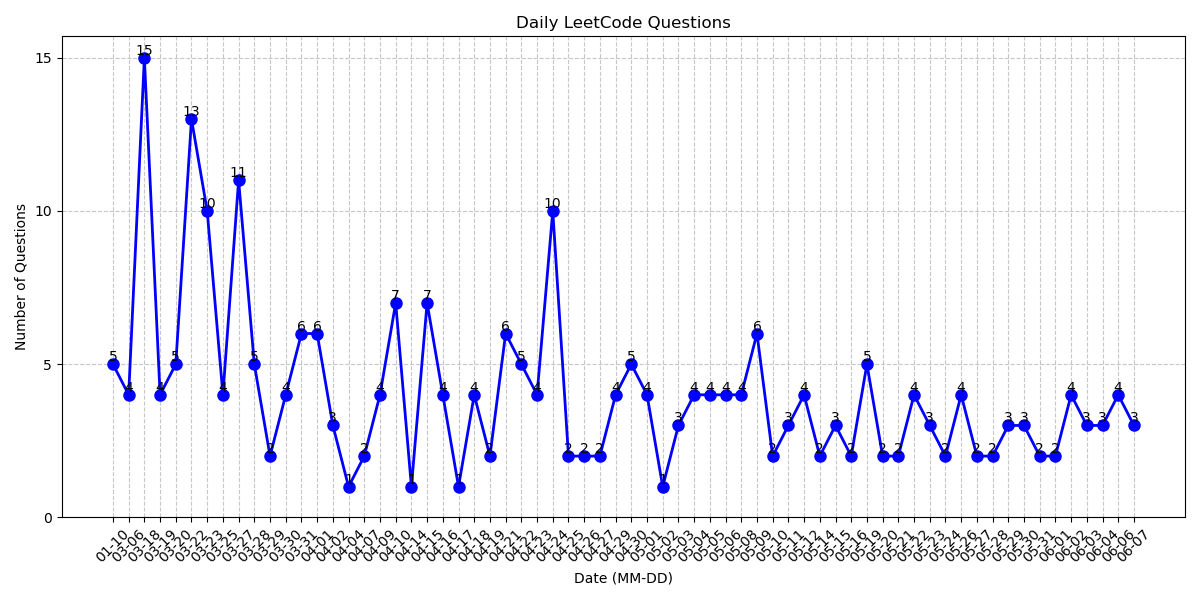
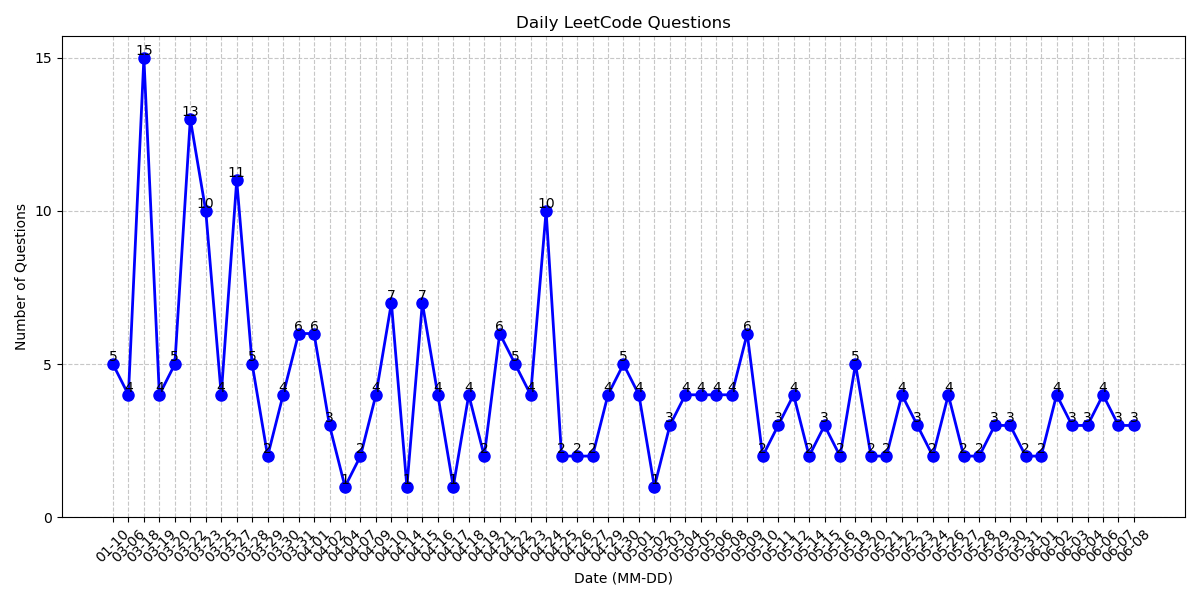
contest and daily pratices

diff --git a/WeekContest/Q2. Best Time to Buy and Sell Stock V.cpp b/WeekContest/Q2. Best Time to Buy and Sell Stock V.cpp
@@ -1,0 +1,76 @@
+/*
+    Normal transaction買入一定要在最低點
+    short selling transaction 賣出一定要在最高點
+    sliding windows
+    每次看目前 buy/sell的 跟 prices[i] 比較
+    1.
+    prices[i] > sell, 這個更值得short selling 的賣出
+    prices[i] < buy, 這個更值得normal transaction 的買入
+
+    2.
+    prices[i] < sell, 計算profit
+    prices[i] > buy, 計算profit
+
+    看哪個比較大決定要用normal 還是 short selling
+
+
+        sol 2. 每次prices[i]決定要 1.buy 還是2.sell, 但根據上一個step 決定,
+        如果i-1是 1.buy, 那只能1,2 sell, or ignore
+        如果i-1是 2.sell, 那只能1.2 buy or ignore
+        如果i-1是 其他那可以1.but 2.sell, or ignore
+
+
+        dp[i][state] 表示 目前這個state這max profit
+
+        state_1: 0: sell, 1: buy
+        state_2: 0: buy, 1: sell
+*/
+#include <iostream>
+using namespace std;
+class Solution {
+  public:
+	long long maximumProfit(vector<int> &prices, int k) {
+		int n = prices.size();
+		const long long NEG_INF = -1e15;
+		vector<vector<vector<long long>>> dp(
+		    n + 1,
+		    vector<vector<long long>>(k + 1, vector<long long>(3, NEG_INF)));
+
+		dp[0][k][0] = 0;
+
+		for (int i = 0; i < n; ++i) {
+			for (int rem_k = 0; rem_k <= k; ++rem_k) {
+				for (int state = 0; state < 3; ++state) {
+					long long val = dp[i][rem_k][state];
+					if (val == NEG_INF)
+						continue;
+
+					// Skip
+					dp[i + 1][rem_k][state] = max(dp[i + 1][rem_k][state], val);
+
+					if (state == 0 && rem_k > 0) {
+						dp[i + 1][rem_k][1] =
+						    max(dp[i + 1][rem_k][1], val - prices[i]); // Buy
+						dp[i + 1][rem_k][2] =
+						    max(dp[i + 1][rem_k][2], val + prices[i]); // Short
+					} else if (state == 1 && rem_k >= 1) {
+						dp[i + 1][rem_k - 1][0] = max(dp[i + 1][rem_k - 1][0],
+						                              val + prices[i]); // Sell
+					} else if (state == 2 && rem_k >= 1) {
+						dp[i + 1][rem_k - 1][0] =
+						    max(dp[i + 1][rem_k - 1][0],
+						        val - prices[i]); // Buy back
+					}
+				}
+			}
+		}
+
+		long long ans = 0;
+		for (int rem_k = 0; rem_k <= k; ++rem_k) {
+			ans = max(ans, dp[n][rem_k][0]);
+		}
+
+		return ans;
+	}
+};
+©leetcode

diff --git a/Stack&Queue/1438. Longest Continuous Subarray With Absolute Diff Less Than or Equal to Limit.cpp b/Stack&Queue/1438. Longest Continuous Subarray With Absolute Diff Less Than or Equal to Limit.cpp
@@ -1,0 +1,71 @@
+/*
+    1. brutal force, sldiing window exapdn right, narrow left, then check all
+   subarray and calculate all distance time: O(n^2)
+
+    2. we used heap to maintain max/min value in windows(by index), and if
+   current distance(max - min) > limit, narrow down until <= limit
+    time O(nlogn)
+
+    3. monotonic queue, heap 會造成多餘的log(n) 計算,
+       我們同時維護max/min dqueue, 超出limit 就不斷移動left 直到max/min 符合條件
+
+*/
+#include <iostream>
+using namespace std;
+#define Pair pair<int, int>
+class Solution {
+  public:
+	int longestSubarray(vector<int> &nums, int limit) {
+		priority_queue<Pair> max_heap;
+		priority_queue<Pair, vector<Pair>, greater<>> min_heap;
+		int l = 0;
+		int max_len = 0;
+		for (int r = 0; r < nums.size(); ++r) {
+			max_heap.push({nums[r], r});
+			min_heap.push({nums[r], r});
+
+			while (l < r && !max_heap.empty() && !min_heap.empty() &&
+			       max_heap.top().first - min_heap.top().first > limit) {
+				while (max_heap.top().second <= l)
+					max_heap.pop();
+				while (min_heap.top().second <= l)
+					min_heap.pop();
+				++l;
+			}
+			max_len = max(max_len, r - l + 1);
+		}
+		return max_len;
+	}
+};
+
+class Solution {
+  public:
+	int longestSubarray(vector<int> &nums, int limit) {
+		deque<int> max_q;
+		deque<int> min_q; // save index
+		int l = 0;
+		int max_len = 0;
+		for (int r = 0; r < nums.size(); ++r) {
+
+			// maintain the restrict increase/decrease
+			while (!max_q.empty() && nums[max_q.front()] < nums[r])
+				max_q.pop_front();
+			while (!min_q.empty() && nums[min_q.front()] > nums[r])
+				min_q.pop_front();
+			max_q.push_front(r);
+			min_q.push_front(r);
+			// if current max/min over the limit, narrow left window utils less
+			// than limit
+			while (!max_q.empty() && !min_q.empty() &&
+			       nums[max_q.back()] - nums[min_q.back()] > limit) {
+				if (max_q.back() <= l)
+					max_q.pop_back();
+				if (min_q.back() <= l)
+					min_q.pop_back();
+				++l;
+			}
+			max_len = max(max_len, r - l + 1);
+		}
+		return max_len;
+	}
+};

diff --git a/WeekContest/Q3. Count Partitions With Max-Min Difference at Most K.cpp b/WeekContest/Q3. Count Partitions With Max-Min Difference at Most K.cpp
@@ -1,0 +1,41 @@
+#include <iostream>
+using namespace std;
+
+/*
+    每次check 目前subarray 是否符合max - min <= k條件
+    符合就兩種選擇
+    1. 繼續expand
+    2. split, start new subarray
+
+    不符合就return
+*/
+class Solution {
+  public:
+	int modolo = 1e9 + 7;
+	vector<int> dp;
+	int countPartitions(vector<int> &nums, int k) {
+		dp.resize(nums.size(), -1);
+		dfs(nums, 0, k, INT_MIN, INT_MAX);
+		return num_comb;
+	}
+	int dfs(vector<int> &nums, int i, int k, int max_val, int min_val) {
+		if (i == nums.size()) {
+			return 1;
+		}
+		if (dp[i] != -1)
+			return dp[i];
+		max_val = max(max_val, nums[i]);
+		min_val = min(min_val, nums[i]);
+		long long num_comb;
+		if (max_val - min_val <= k) {
+			// expand or split
+			num_comb = (dfs(nums, i + 1, k, max_val, min_val) +
+			            dfs(nums, i + 1, k, INT_MIN, INT_MAX)) %
+			           modolo;
+
+		} else
+			num_comb = 0;
+		dp[i] = num_comb;
+		return dp[i];
+	}
+};

diff --git a/WeekContest/Q2. Count the Number of Computer Unlocking Permutations.cpp b/WeekContest/Q2. Count the Number of Computer Unlocking Permutations.cpp
@@ -1,0 +1,45 @@
+/*
+    0->1
+    1->2
+    0->2
+
+    0->1->2
+    0->2->1
+
+    每次可以打開幾個就有幾種方法
+
+
+*/
+#include <iostream>
+#include <queue>
+using namespace std;
+class Solution {
+  public:
+	int countPermutations(vector<int> &complexity) {
+		int count = 1;
+		int n = complexity.size();
+		vector<vector<int>> graph(n);
+		queue<int> q;
+		q.push(0);
+
+		for (int i = 0; i < n; ++i) {
+			for (int j = 0; j < n; ++j) {
+				if (i == j)
+					continue;
+				if (complexity[i] < complexity[j])
+					graph[i].push_back(j);
+			}
+		}
+		int visit_pc = 0;
+		while (!q.empty()) {
+			int pc = q.front();
+			q.pop();
+			++visit_pc;
+			int num_neis = graph[pc].size();
+			count *= num_neis;
+			for (int &nei : graph[pc])
+				q.push(nei);
+		}
+		return visit_pc == n ? count : 0;
+	}
+};

diff --git a/WeekContest/Q1. Maximize Y‑Sum by Picking a Triplet of Distinct X‑Values.cpp b/WeekContest/Q1. Maximize Y‑Sum by Picking a Triplet of Distinct X‑Values.cpp
@@ -1,0 +1,33 @@
+/*
+    hashtalbe (x[i],y[i]), 如果x[i] = x[j], index 換成max(y[i], y[j])
+
+    最後用前三個最大的(map排序)
+*/
+#include <iostream>
+#include <map>
+using namespace std;
+class Solution {
+  public:
+	int maxSumDistinctTriplet(vector<int> &x, vector<int> &y) {
+		unordered_map<int, int> map_table;
+		int n = x.size();
+		for (int i = 0; i < n; ++i) {
+			if (map_table.count(x[i]) == 0 || y[i] > map_table[x[i]])
+				map_table[x[i]] = y[i];
+		}
+		int res = 0;
+		priority_queue<int> max_heap;
+		for (auto &m : map_table) {
+			max_heap.push(m.second);
+		}
+		if (max_heap.size() < 3)
+			return -1;
+
+		for (int i = 0; i < 3; ++i) {
+			res += max_heap.top();
+			max_heap.pop();
+		}
+		return res;
+	}
+};
+int main() {}

diff --git a/Graph/386. Lexicographical Numbers.cpp b/Graph/386. Lexicographical Numbers.cpp
@@ -1,0 +1,34 @@
+// 超時
+/*
+    DFS + Tries
+    先1 ~ 9 每個digits都確認一遍
+    透過recursive 先 dfs 到最大位數, 然後再處理每個位數後面的數字
+
+                1   2   3   ... 9
+              / |   |   |
+            10 11  20  21 ...
+           /       ...
+         100     ...
+
+*/
+class Solution {
+  public:
+	void mutliplyDigits(vector<int> &res, int n, int base) {
+
+		for (int i = 0; i <= 9; ++i) {
+			int num = base + i;
+			if (num == 0)
+				continue;
+			if (num <= n) {
+				res.push_back(num);
+				// next digits
+				mutliplyDigits(res, n, num * 10);
+			}
+		}
+	}
+	vector<int> lexicalOrder(int n) {
+		vector<int> res;
+		mutliplyDigits(res, n, 0);
+		return res;
+	}
+};

diff --git a/WeekContest/Q1. Transform Array to All Equal Elements.cpp b/WeekContest/Q1. Transform Array to All Equal Elements.cpp
@@ -1,0 +1,30 @@
+#include <iostream>
+using namespace std;
+/*
+    全部1跟全部-1都試試看
+    遇到不符合的就change nums[i], nums[i + 1]
+*/
+class Solution {
+  public:
+	bool canMakeEqual(vector<int> &nums, int k) {
+		vector<int> pos_one(nums);
+		vector<int> neg_one(nums);
+		int n = nums.size();
+		for (int i = 0; i < n - 1; ++i) {
+			if (pos_one[i] == -1) {
+				if (i == n - 1)
+					return false;
+				else
+					pos_one[i + 1] *= -1;
+			}
+
+			if (neg_one[i] == 1) {
+				if (i == n - 1)
+					return false;
+				else
+					neg_one[i + 1] *= -1;
+			}
+		}
+		return true;
+	}
+};

diff --git a/Greedy/3577. Count the Number of Computer Unlocking Permutations.cpp b/Greedy/3577. Count the Number of Computer Unlocking Permutations.cpp
@@ -1,0 +1,26 @@
+// solution
+/*
+    先看computer 0 能不能解開所有, 可以的話我們可以用任何順序去
+    unlock, 答案是 (n - 1)!
+
+    如果不行就是0
+*/
+#include <iostream>
+#include <queue>
+using namespace std;
+class Solution {
+  public:
+	int countPermutations(vector<int> &complexity) {
+		int pc = complexity[0];
+		int n = complexity.size();
+		long long res = 1;
+		int modolo = 1e9 + 7;
+		for (int i = 1; i < n; ++i) {
+			if (complexity[i] <= pc)
+				return 0;
+			else
+				res = (res * i) % modolo;
+		}
+		return res;
+	}
+};

diff --git a/README.md b/README.md
@@ -1,7 +1,7 @@
 # LeetCode Problems
 
-❌  can't resolve without solution: 28
-📝  can't resolve without hint: 184
+❌  can't resolve without solution: 29
+📝  can't resolve without hint: 185
 ✅  resolve by self: 43
 ## Tree
 - ❌ 105. Construct Binary Tree from Preorder and Inorder Traversal
@@ -89,6 +89,7 @@
 - 📝 210.CourseSchedule2
 - 📝 1061. Lexicographically Smallest Equivalent String
 - 📝 3373. Maximize the Number of Target Nodes After Connecting Trees II
+- 📝 386. Lexicographical Numbers
 - 📝 maxLand
 - 📝 3341. Find Minimum Time to Reach Last Room I
 - 📝 rottingFruit
@@ -185,6 +186,7 @@
 
 ## Greedy
 - ❌ MergeTripletsFormTarget
+- ❌ 3577. Count the Number of Computer Unlocking Permutations
 - 📝 2434. Using a Robot to Print the Lexicographically Smallest String
 - 📝 135. Candy
 - 📝 jumpGame
@@ -289,7 +291,7 @@
 - 📝 2574. Left and Right Sum Differences
 
 ## Statistics
-Current total questions: 252
+Current total questions: 254
 
 <img src="chart.png" alt="questions bar chart" width="500">
 
